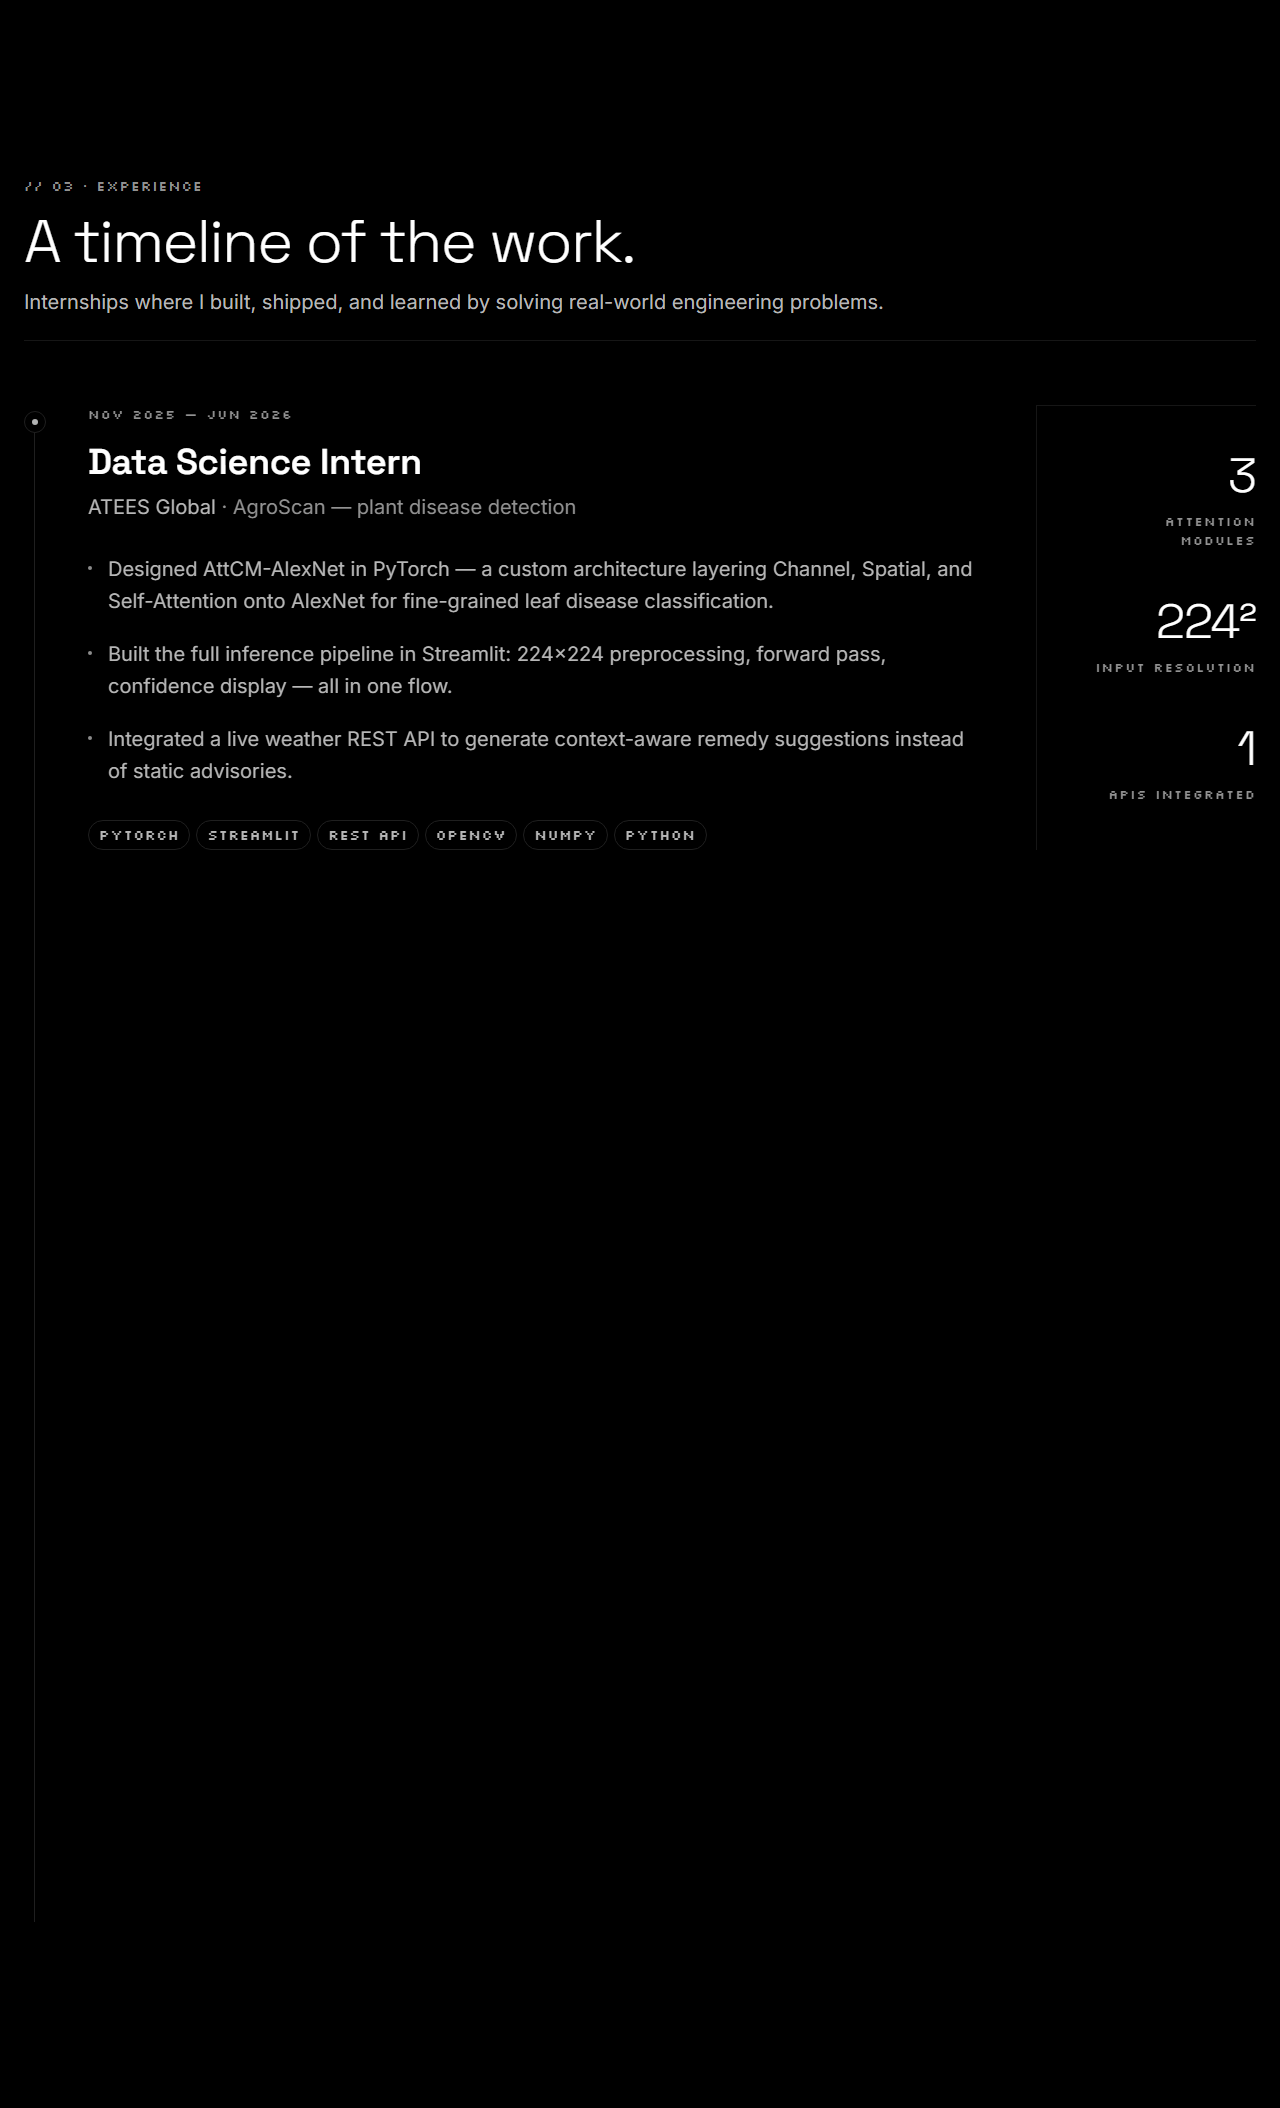
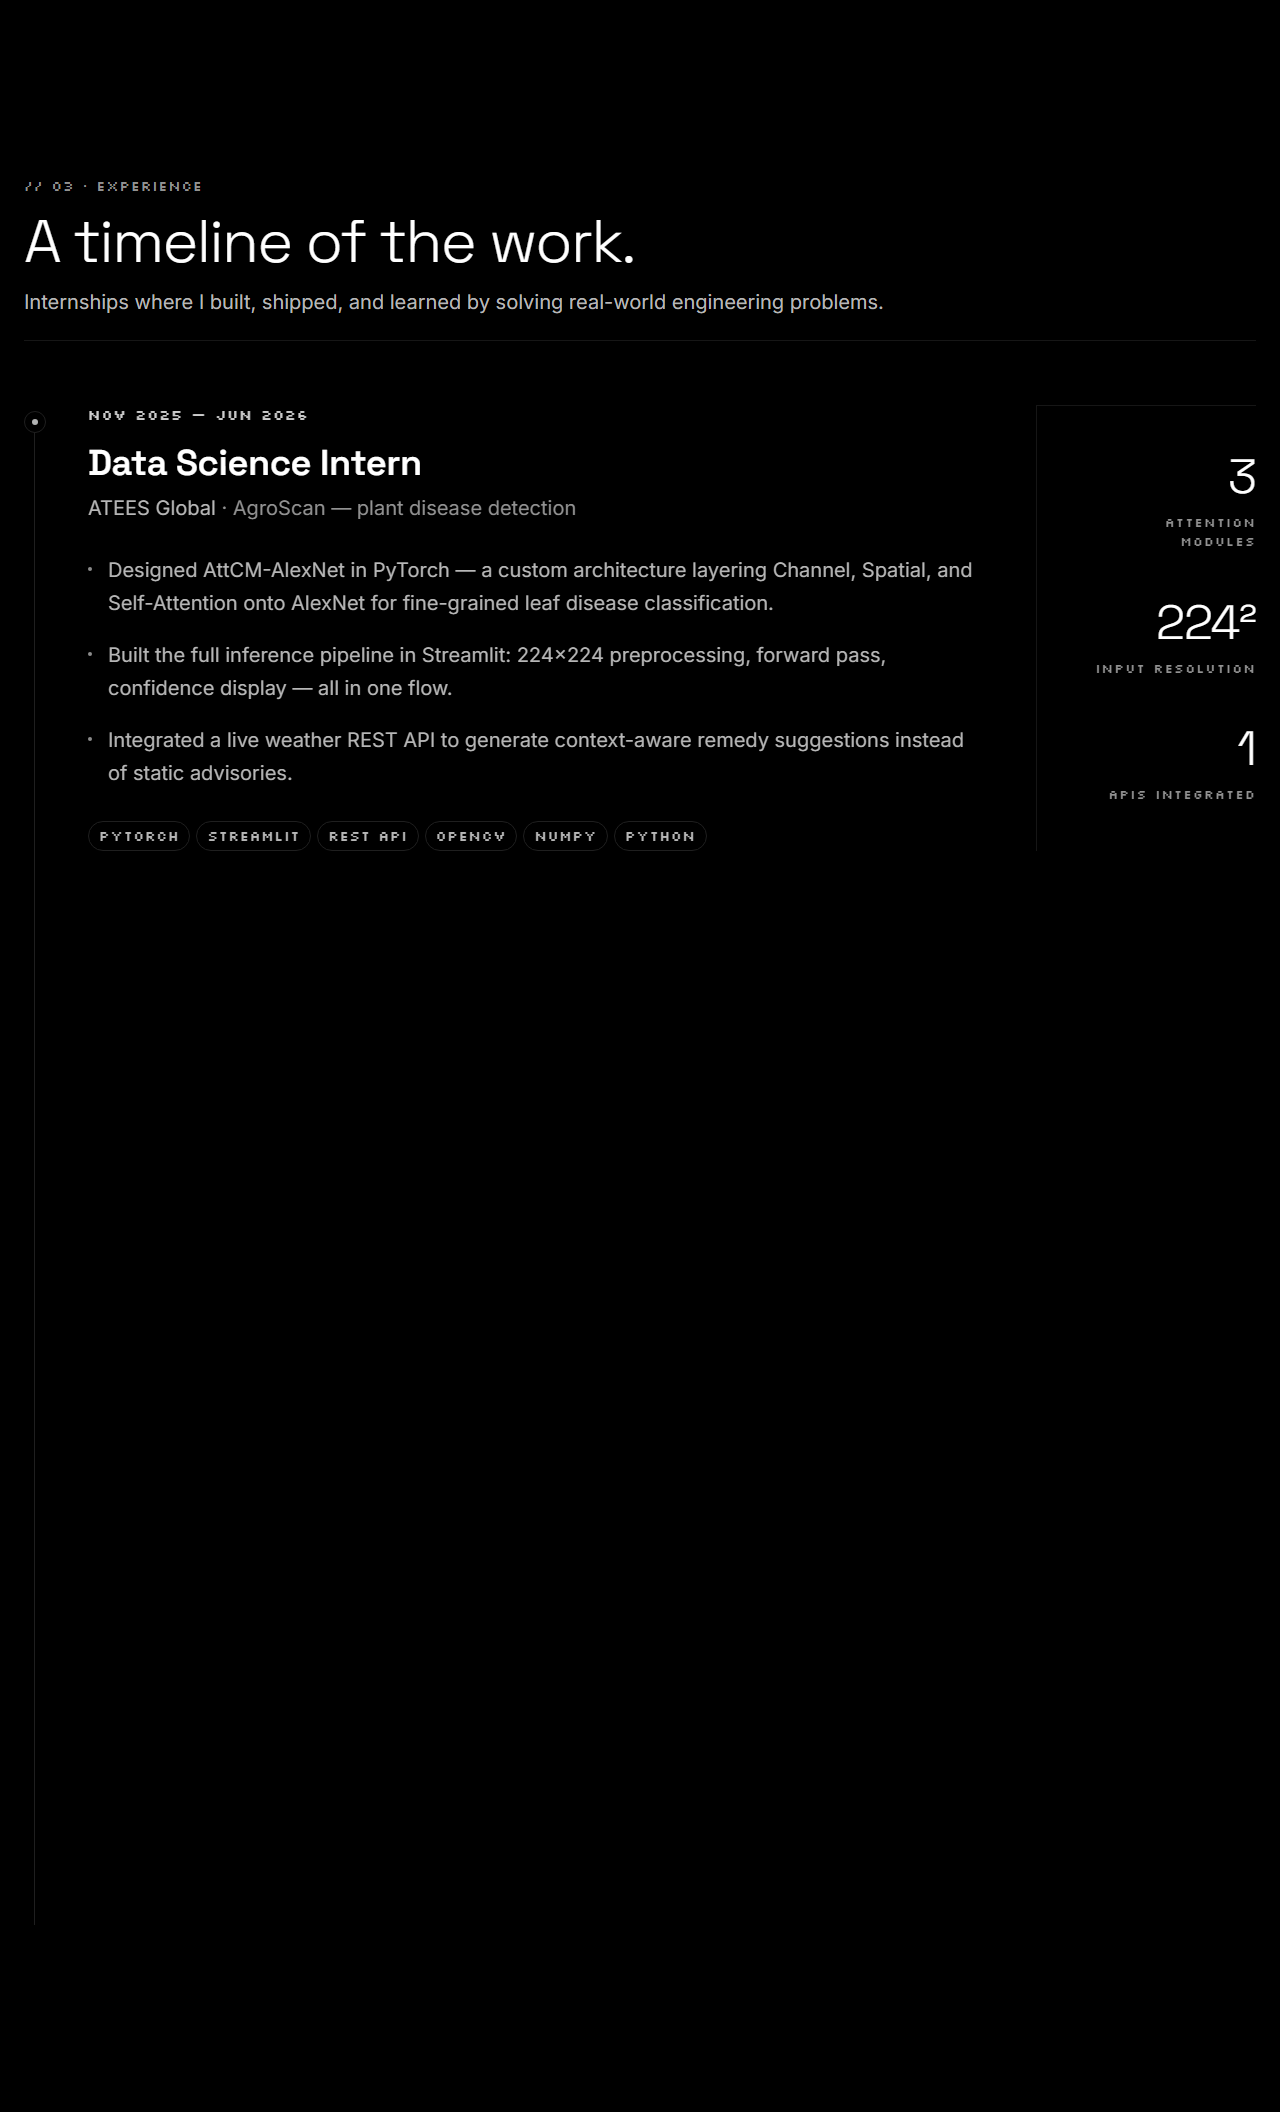
#

Changed region(s): [[0.0938, 0.3392, 0.1562, 0.37], [0.4688, 0.2775, 0.5, 0.3083], [0.1875, 0.3083, 0.2188, 0.3392]]

diff --git a/src/routes/index.tsx b/src/routes/index.tsx
@@ -30,7 +30,7 @@ function Index() {
               <Reveal delay={40} className="mb-6">
                 <div className="inline-flex w-fit max-w-full min-h-9 h-auto items-center gap-2.5 px-0 md:px-0 md:w-auto md:whitespace-nowrap">
                   <span className="availability-breathe h-2.5 w-2.5 shrink-0 rounded-full bg-foreground" aria-hidden="true" />
-                  <span className="font-dot text-[13px] font-medium uppercase tracking-[0.2em] text-foreground">
+                  <span className="font-dot text-[14px] md:text-[15px] font-medium uppercase tracking-[0.18em] text-foreground">
                     OPEN TO FULL-TIME • ML ENGINEER • ASSOCIATE DATA SCIENTIST • AI ENGINEER
                   </span>
                 </div>
@@ -286,7 +286,7 @@ function Index() {
 
                   <div className="grid gap-10 lg:grid-cols-[1fr_220px] lg:gap-12">
                     <div>
-                      <p className="font-dot text-[13px] uppercase tracking-widest text-subtle">{e.period}</p>
+                      <p className="font-dot text-sm font-medium uppercase tracking-widest text-white/80">{e.period}</p>
                       <h3 className="mt-4 font-display text-3xl font-semibold leading-tight tracking-[-0.01em] text-foreground md:text-4xl">
                         {e.role}
                       </h3>